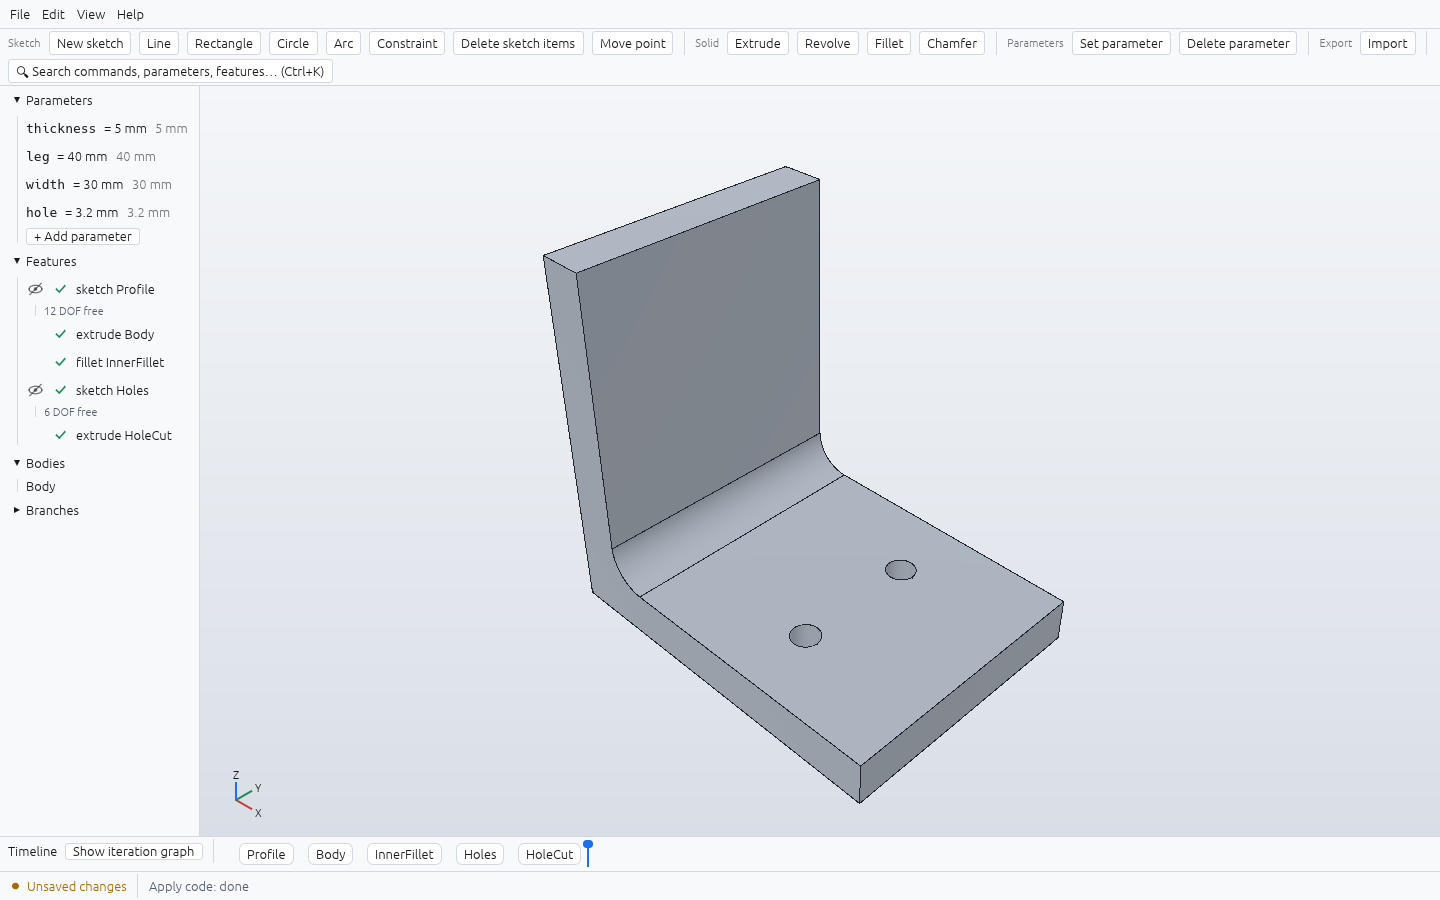
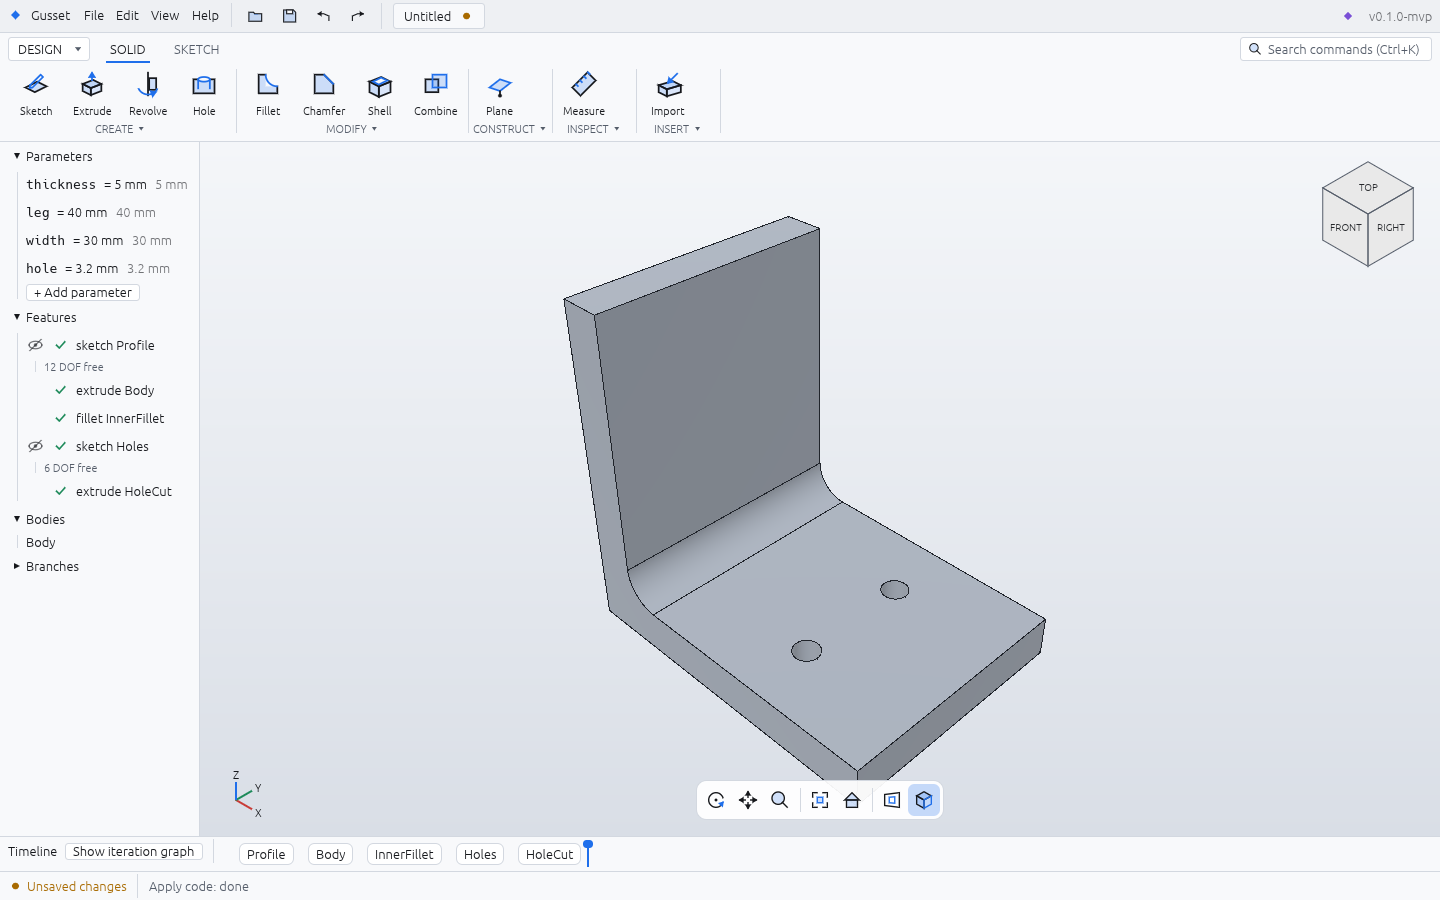
docs(screenshots): regenerate the gallery for the Fusion-style layout
Regenerated with the real kernel (OCCT) in both themes: title bar, tabs, ribbon,
view cube and navigation bar on every screen, plus new screens for sketch
editing (08) and an open ribbon dropdown (09). PROGRESS.md notes what is left of
the layout work.

Claude-Session: https://claude.ai/code/session_01DSjXuzSVUbVM2N9dfBB73Z

diff --git a/docs/PROGRESS.md b/docs/PROGRESS.md
@@ -39,6 +39,14 @@ Phase 3 has started (see Next).
 - IGES import: OCCT reads IGES only from a file, so the sandboxed worker gets a
   Landlock read rule for one private temp file (ADR 0008 §4); in a worktree branch.
 
+- GUI phase 1 of the Fusion-style layout (ADR 0023 §4, DESIGN.md §2): title bar,
+  SOLID/SKETCH tabs, ribbon with dropdown groups, view cube and navigation bar are done.
+  Still to do in later phases: browser tree (Document settings, Origin, Bodies...),
+  timeline with playback controls and feature icons, the command line, a properties
+  panel instead of the floating command form, the SURFACE/INSPECT tabs, the SELECT group,
+  and a wireframe view style (gusset-render has no wireframe mode; the navigation bar
+  toggles edges instead).
+
 ## Done for v0.2 after its reviews (2026-10-13)
 - Code and security review findings H1-H3, M1-M5, L1-L11, V1-V8 fixed.
 - Dogfooding run 3 (docs/DOGFOODING.md): all 15 findings closed (the render "ticks"
